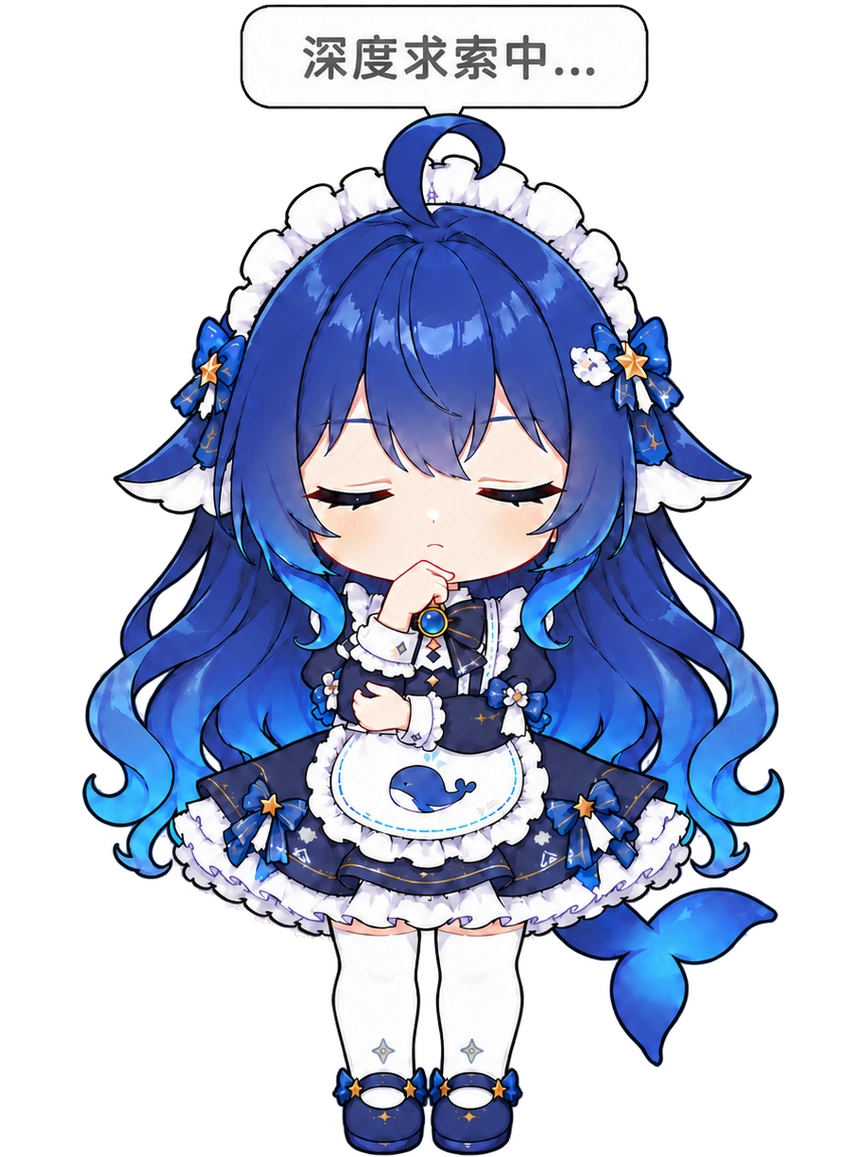
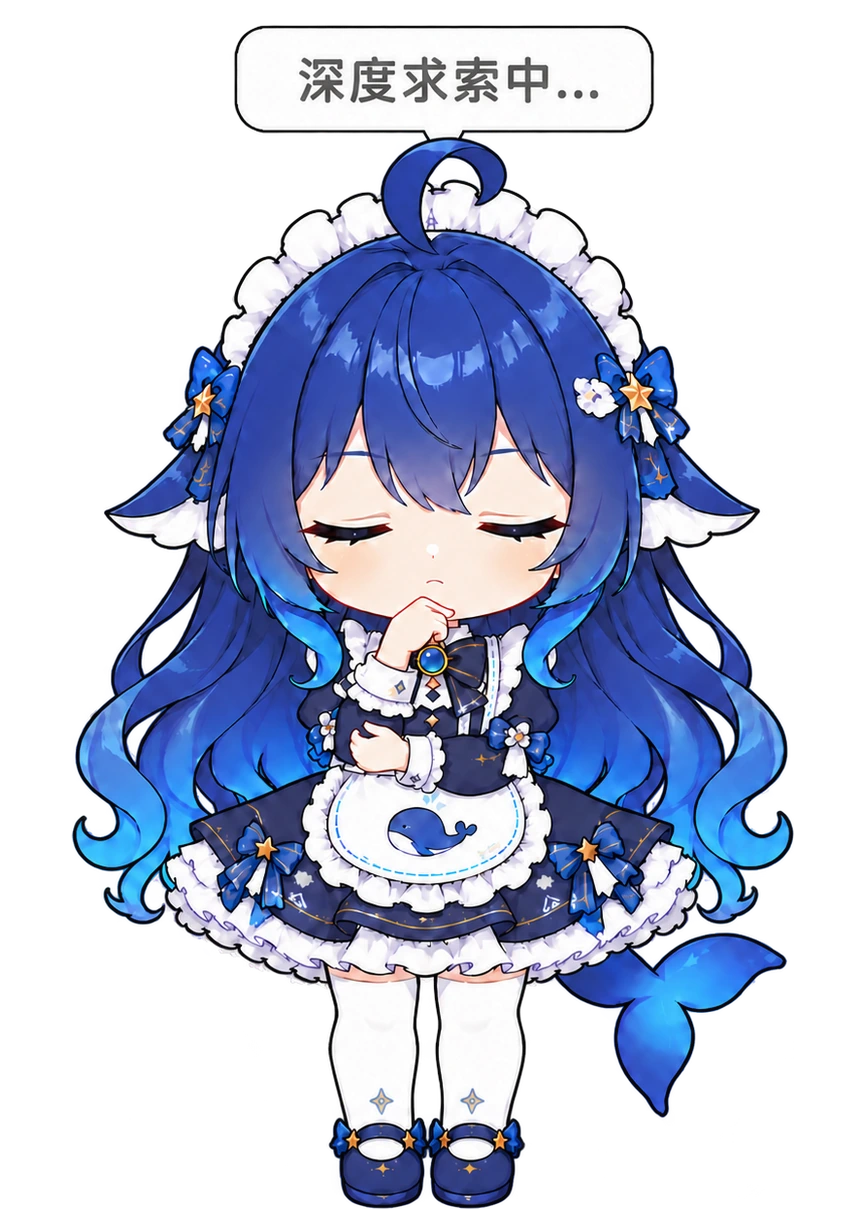
思考循环段：第 3 帧换新素材；三段大小与站立对齐
用户两条要求：
1. 思考中第 3 帧换成新图；
2. 「深度思考动作的思考准备、思考中、思考结束三部分桌宠大小都和站立不一致，
   看起来很突兀」—— 要让全程与站立同大小。

## 换帧

`thinking.zip` 的新 3.png（1254²、RGBA、内容 744x1221、脚底 1226）与前两帧同规格，
直接替换 `.cache/think-loop-raw/3.png` 重建。

## 大小为什么之前对不上（几何冲突）

循环段头顶有"深度求索中…"气泡（素材自带、必须保留）。按站立大小画时：

  · 角色（低头含胸）约 1076px + 气泡区约 116px = 1189px
  · 而画布只有 1157px → 气泡顶部**超出画布 32px**，会被裁掉

于是只能整体缩到 0.944（角色比站立小约 10%）—— 这就是"突兀"的来源。

## 解法：给这个动作单独加高画布

`build-action-asset.py` 新增按动作配置的 `canvas_height`（默认仍 1157）：
循环段画布 864x1210，脚底仍在距底 2px 处。于是
**角色按头宽对齐站立（缩放 0.9707、头宽 530）+ 气泡完整保留**，两者兼得。

配套改动：
· 渲染进程 `showFrame` 原来一律用固定的 petHeight 设帧高，画布更高的动作会被**压扁**；
  改成按**素材自身比例**设高（宽度 × 自然高/宽）。
· 多出的高度向上溢出：`.character` 是 flex-end 对齐且不裁切，上面正好是气泡区
  （有 50+px 富余）。自测断言"帧变高（321→336）但脚底位置不变（394→394）"。
· `test-animations` 的"脚底一致"断言改为比较**距画布底边**，
  这样"画布高度不同但脚底对齐"不再被误判。

## 踩的坑

`showFrame` 里第一版直接引用 `petWidth` → 该变量在文件后段才初始化，而 `showFrame`
在启动预加载阶段就被调用，踩 TDZ 报 `petWidth is not defined`，整个渲染进程挂掉
（自测直接"出错"）。改成读帧元素当前已设定的宽度。

## 验证

· 自测：**288/289**（唯一失败是那条已知偶发的命中滞回）
  · 循环帧高 336 vs 站立 321（= 240 × 1210/864）✓
  · 脚底位置 394 = 394 ✓
  · 衔接被切回站立次数 = 0 ✓
· npm test：23 组 247 条全绿
· 尺寸对比图：站立 / 进入末帧 / 循环 3 帧 / 退出首帧 体型一致、脚底对齐、气泡完整

Changed region(s): [[0.0625, 0.0, 0.9375, 1.0]]

diff --git a/pet-app/main.js b/pet-app/main.js
@@ -5632,6 +5632,13 @@ async function verifyAffectionAndFeedback(check, wait) {
      */
     await js('window.__petTestRefresh()')
     await wait(300)
+    /*
+     * 记下"站立时"的角色矩形：思考循环段的画布更高（864x1210，为了放头顶气泡），
+     * 帧会向上溢出 —— 但**脚底必须纹丝不动**，否则角色会像被抬起来。
+     */
+    const rectStand = await js(
+      '(() => { const r = document.getElementById("frame").getBoundingClientRect(); return { w: r.width, h: r.height, bottom: r.bottom } })()',
+    )
     testPushState({ workStatus: 'thinking', workLabel: '思考中…', seq: 9601 })
     await wait(500)
     const t1 = await js('window.__petTestThink.state()')
@@ -5661,6 +5668,25 @@ async function verifyAffectionAndFeedback(check, wait) {
       '进入段播完 → 自动循环 think-loop',
       Boolean(tLoop) && tLoop.phase === 'loop' && tLoop.activeAnimationId === 'think-loop',
       `phase=${String(tLoop && tLoop.phase)}，动画=${String(tLoop && tLoop.activeAnimationId)}`,
+    )
+
+    /*
+     * 循环段画布比其他动作高（864x1210，多出来的是头顶气泡所需的空间）。
+     * 帧高要按素材自身比例走（否则会被压扁），而脚底必须与站立一致。
+     */
+    const rectLoop = await js(
+      '(() => { const r = document.getElementById("frame").getBoundingClientRect(); return { w: r.width, h: r.height, bottom: r.bottom } })()',
+    )
+    check(
+      '思考循环段的帧按自身比例变高（不被压扁）',
+      Boolean(rectStand) && Boolean(rectLoop) && rectLoop.h > rectStand.h + 4,
+      `站立高 ${String(rectStand && rectStand.h)} → 循环高 ${String(rectLoop && rectLoop.h)}`
+        + `（宽度 ${String(rectLoop && rectLoop.w)}，期望高 ≈ 宽 × 1210/864）`,
+    )
+    check(
+      '思考循环段的脚底位置与站立一致（角色没被抬起）',
+      Boolean(rectStand) && Boolean(rectLoop) && Math.abs(rectLoop.bottom - rectStand.bottom) <= 1.5,
+      `站立底 ${String(rectStand && rectStand.bottom)} → 循环底 ${String(rectLoop && rectLoop.bottom)}`,
     )
 
     await js('window.__petTestClick()')

diff --git a/pet-app/renderer.js b/pet-app/renderer.js
@@ -782,6 +782,34 @@ function showFrame(index) {
   if (!img) return
   state.index = index
   frameEl.src = img.src
+  /*
+   * 帧高按**素材自身比例**设置，而不是一律用 petHeight。
+   *
+   * 绝大多数动作的画布都是 864x1157，与 petHeight 一致；但「深度思考·循环段」
+   * 为了保住头顶自带的气泡，画布加高到了 864x1210（见 build-action-asset.py 的
+   * canvas_height 说明）。若这里仍写死 petHeight，那张帧会被纵向压扁 ——
+   * 角色会变形，命中测试也会跟着错位。
+   *
+   * 多出来的高度向上溢出：`.character` 是 flex-end 对齐、且不裁切，
+   * 上面正好是气泡区（有 50+px 富余），所以气泡显示得下、脚底位置不变。
+   */
+  const natW = img.naturalWidth || 0
+  const natH = img.naturalHeight || 0
+  if (natW > 0 && natH > 0) {
+    /*
+     * 宽度取**帧元素当前已设定的宽度**，不直接读 `petWidth`：
+     * 那个变量在文件后段才初始化，而 `showFrame` 在启动预加载阶段就会被调用 ——
+     * 直接引用会踩 TDZ（实测报 "petWidth is not defined"，整个渲染进程挂掉）。
+     */
+    const widthNow = Number.parseFloat(frameEl.style.width) || frameEl.getBoundingClientRect().width || 0
+    if (widthNow > 0) {
+      const wanted = Math.round((widthNow * natH) / natW)
+      const current = Number.parseFloat(frameEl.style.height)
+      if (!Number.isFinite(current) || Math.abs(current - wanted) > 0.5) {
+        frameEl.style.height = `${String(wanted)}px`
+      }
+    }
+  }
   // translateY 为正表示向下；清单里的 offset 正值表示"人物上移"，所以要取负。
   const ratio = state.offsetRatios[index] ?? 0
   frameEl.style.transform = ratio === 0 ? '' : `translateY(${(-ratio * 100).toFixed(3)}%)`

diff --git a/scripts/dev/build-action-asset.py b/scripts/dev/build-action-asset.py
@@ -233,11 +233,18 @@ ACTIONS = {
         # 循环段头顶有"深度求索中…"气泡 —— 它是**素材的一部分，要保留**
         # （用户明确："气泡就是素材本身应该有的"）。
         #
-        # ⚠ 别为了气泡去"排除顶部再量尺寸"：试过 `bubble_ignore_top_ratio: 0.18`，
-        # 结果量尺落到了更宽的头发上（原始头宽从 544 变成 676），缩放被压到 0.784，
-        # 角色明显变小。留着气泡时 fit 上限并不吃紧（0.975），
-        # 头宽对齐算出来的 0.974 才是对的 —— 气泡只是站在头顶上方，不参与头宽与脚底。
+        # ⚠ 这里有两个互相牵制的约束，解法是**加高画布**：
+        #   · 按站立大小画（用户要求"动作全程始终大小和正常站立一致"）时，
+        #     内容（角色 + 气泡）高约 1189px，超过 1157 的画布，气泡顶部会被切；
+        #   · 想不切气泡，就只能把角色缩到站立的 ~94%（看起来明显小一圈）。
         #
+        # 加高到 1210 后：角色按头宽对齐站立（缩放约 0.974），气泡完整保留；
+        # 多出来的透明区域都在顶部 —— 渲染进程按素材自身比例设置帧高，
+        # 这部分向上溢出到气泡区（那里有 50+px 富余）。
+        "canvas_height": 1210,
+        # 量尺寸时剔除顶部气泡（占内容高度约 9.5%，取 0.10）。
+        # 不剔的话"内容顶部"变成气泡顶，band 会落在气泡上，量出来的不是头宽。
+        "bubble_ignore_top_ratio": 0.10,
         # 声明式：渲染进程用 startLoop 无限循环这一段。
         "loop": True,
         "note": "深度思考（循环：思考中）",
@@ -441,7 +448,16 @@ def build_one(action_id):
         raise SystemExit(f"原始帧目录不存在：{raw_dir}")
 
     out_dir = os.path.join(ROOT, "assets", "animations", action_id)
-    foot_out = standing_foot_output()
+
+    # 画布高度可以**按动作**加高（默认 1157，与站立同高）。
+    #
+    # 为什么需要：深度思考的循环段在头顶上方有一个"深度求索中…"气泡（素材自带、必须保留）。
+    # 若画布仍是 1157，为了保证气泡不被裁，角色只能缩到站立的 ~90%，看起来很突兀；
+    # 而按站立大小画，气泡顶部会超出画布 ~34px 被切掉。
+    # 加高画布后两者都满足：**角色大小不变**，多出来的透明区域只放气泡。
+    # 渲染进程按素材自身比例设置帧高，多出来的高度会向上溢出到气泡区（那里有富余）。
+    canvas_h = int(cfg.get("canvas_height") or CANVAS_H)
+    foot_out = canvas_h - (CANVAS_H - standing_foot_output())
 
     # 先清掉输出目录里**旧的成品帧**。
     #
@@ -463,7 +479,7 @@ def build_one(action_id):
 
     print(f"\n=== {action_id}（{cfg['note']}）===")
     print(
-        f"  脚底基准（与站立一致）: y={foot_out}   画布 {CANVAS_W}x{CANVAS_H}   "
+        f"  脚底基准: y={foot_out}   画布 {CANVAS_W}x{canvas_h}   "
         f"帧率 {cfg['fps']} fps{'（默认）' if cfg['fps'] == DEFAULT_FPS else '（显式指定）'}"
     )
 
@@ -729,7 +745,7 @@ def build_one(action_id):
 
         # 垂直越界直接报错 —— 宁可失败也不要偷偷裁掉角色的头或脚。
         # 水平方向允许溢出（气泡），但**角色本体必须完整落在画布内**。
-        if py < 0 or py + content.height > CANVAS_H:
+        if py < 0 or py + content.height > canvas_h:
             raise SystemExit(
                 f"{name} 垂直方向越界：内容高 {content.height}，落点 y={py}。"
                 f"需要更小的 fs（当前 {fs}）。"
@@ -738,13 +754,13 @@ def build_one(action_id):
         body_px1 = px + int((body[2] - sb[0]) * fs)
         body_py0 = py + int((body[1] - sb[1]) * fs)
         body_py1 = py + int((body[3] - sb[1]) * fs)
-        if body_px0 < 0 or body_px1 >= CANVAS_W or body_py0 < 0 or body_py1 >= CANVAS_H:
+        if body_px0 < 0 or body_px1 >= CANVAS_W or body_py0 < 0 or body_py1 >= canvas_h:
             raise SystemExit(
                 f"{name} 的角色本体越出画布：x {body_px0}~{body_px1}，y {body_py0}~{body_py1}"
-                f"（画布 {CANVAS_W}x{CANVAS_H}）。需要更小的 fs（当前 {fs}）。"
+                f"（画布 {CANVAS_W}x{canvas_h}）。需要更小的 fs（当前 {fs}）。"
             )
 
-        canvas = Image.new("RGBA", (CANVAS_W, CANVAS_H), (0, 0, 0, 0))
+        canvas = Image.new("RGBA", (CANVAS_W, canvas_h), (0, 0, 0, 0))
         canvas.alpha_composite(content, (px, py))
 
         ob = content_bounds(canvas)
@@ -788,11 +804,11 @@ def build_one(action_id):
         "frameCount": len(report),
         "fps": cfg["fps"],
         "loop": cfg["loop"],
-        "sourceCanvasHeight": CANVAS_H,
+        "sourceCanvasHeight": canvas_h,
         "drawOffsetY": [0] * len(report),
         "_note": f"由 scripts/dev/build-action-asset.py {action_id} 生成；与站立素材同一画布约定（水平居中 + 脚底基准 y={foot_out}）。",
         "_processing": {
-            "canvas": {"w": CANVAS_W, "h": CANVAS_H},
+            "canvas": {"w": CANVAS_W, "h": canvas_h},
             "scale": scale,
             "footBaseOutput": foot_out,
             # 成品头宽（输出空间）。做"与站立同大小"的校验时读它 ——

diff --git a/CHANGELOG.md b/CHANGELOG.md
@@ -36,11 +36,15 @@
 - 另出一份 `全部更新日志`（md / txt / docx），按版本从新到旧汇总所有历史记录。
 - 启动时打印素材自检（动作总数 + 思考三段是否就位），便于一眼看出"进程比素材旧"。
 - 深度思考动作补上素材：进入 6 帧 → 循环 3 帧 → 退出倒放 6 帧，被打断时按 6→1 收回。
-- 思考中循环段换成新版素材（3 帧、透明底），气泡原样保留。
+- 思考中循环段第 3 帧换成新版素材，气泡原样保留。
+- 构建脚本支持按动作加高画布（`canvas_height`），供"角色不缩小、气泡也要放得下"的场景使用。
 - 坐下循环段换成新素材 `sit_circle_new`（12 帧），体宽从 219 增到 240，与坐下/站起衔接一致。
 
 ### 修复
 
+- 思考循环段比站立小约 10%：画布加高到 1210 给头顶气泡留位置，角色按站立头宽对齐（头宽 530）。
+- 帧高原先一律用固定值，画布更高的动作会被纵向压扁；改成按素材自身比例设置，多出的高度向上溢出到气泡区。
+- 「脚底一致」断言改为比较"脚底距画布底边"，这样画布高度不同但脚底对齐的动作不再被误判。
 - 思考三段衔接时会闪一帧站立：段落切换原先先回站立、再等素材异步加载，改成先载好素材再原地切换。
 - 新增"本轮被切回站立的次数"断言，保证衔接不经过站立这一行为不回退。
 - 思考的收尾定时器会误切后续动作（点击/拖拽播到一半跳回站立），已加版本号与"当前动作"双重校验。
